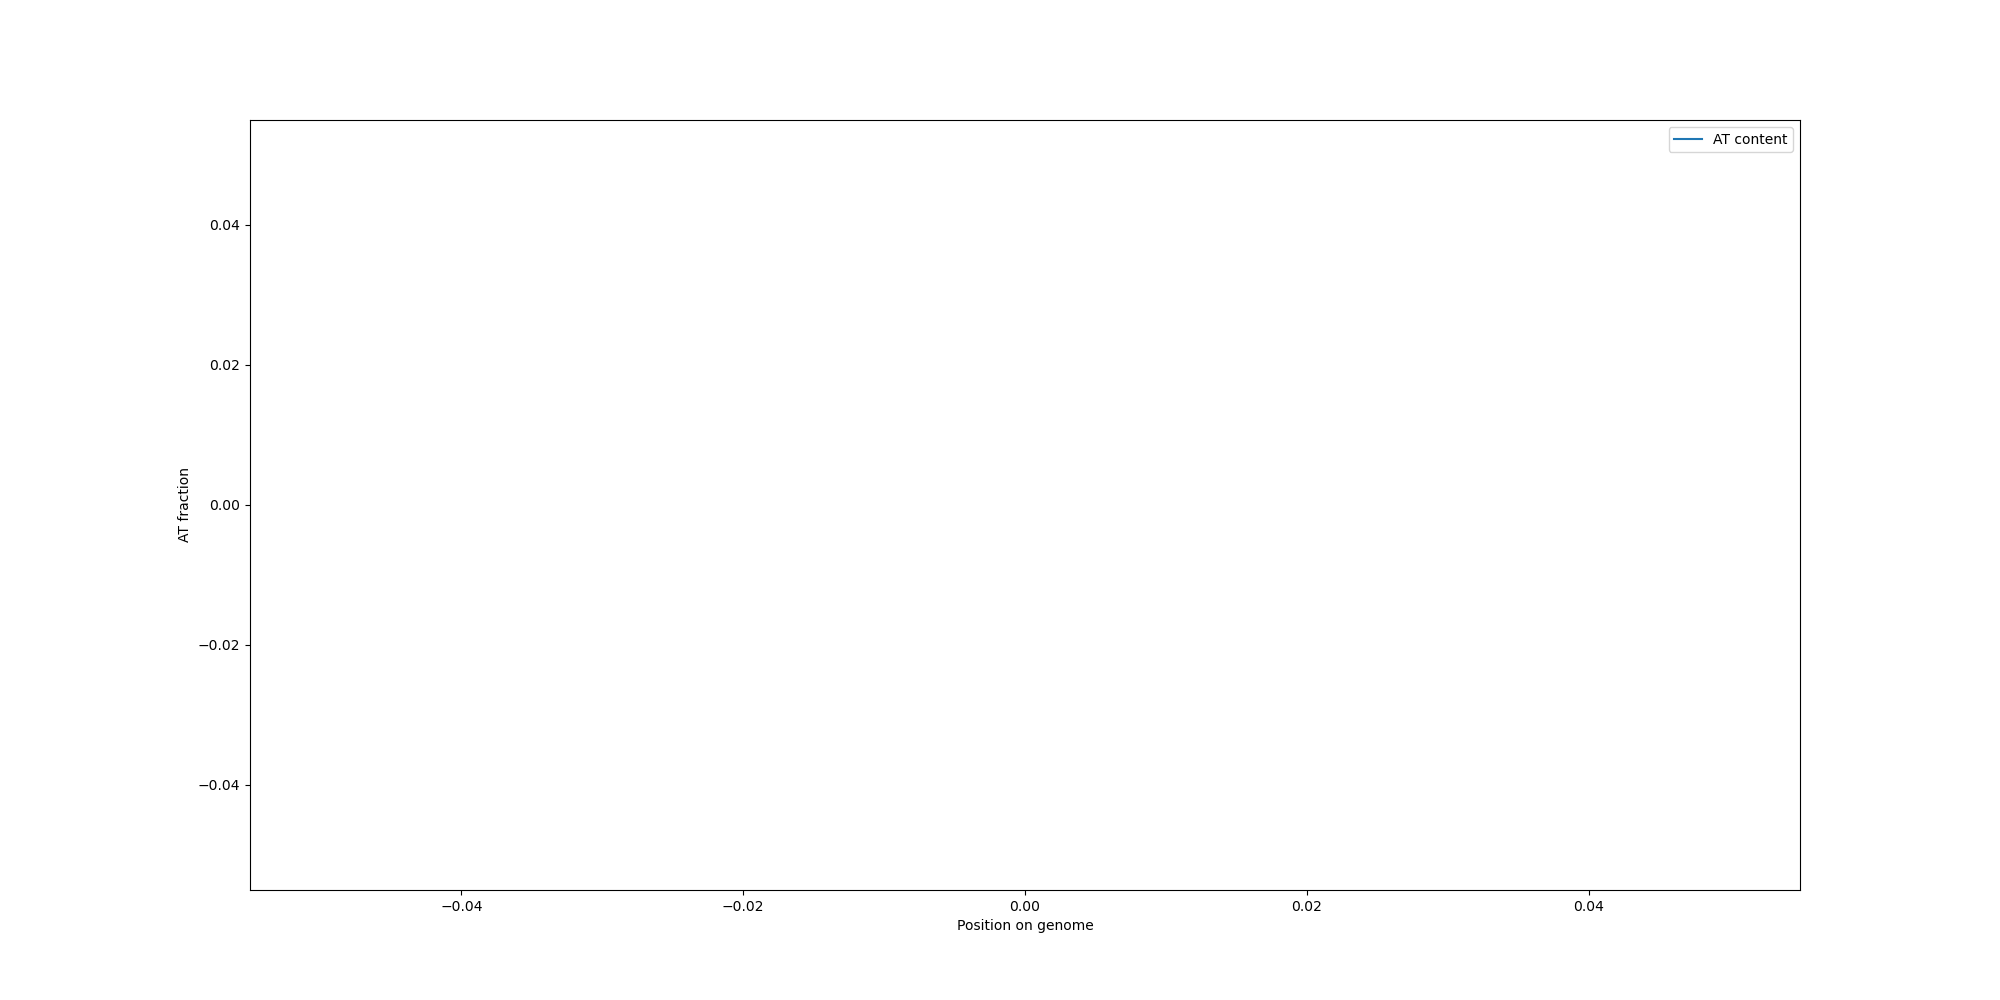
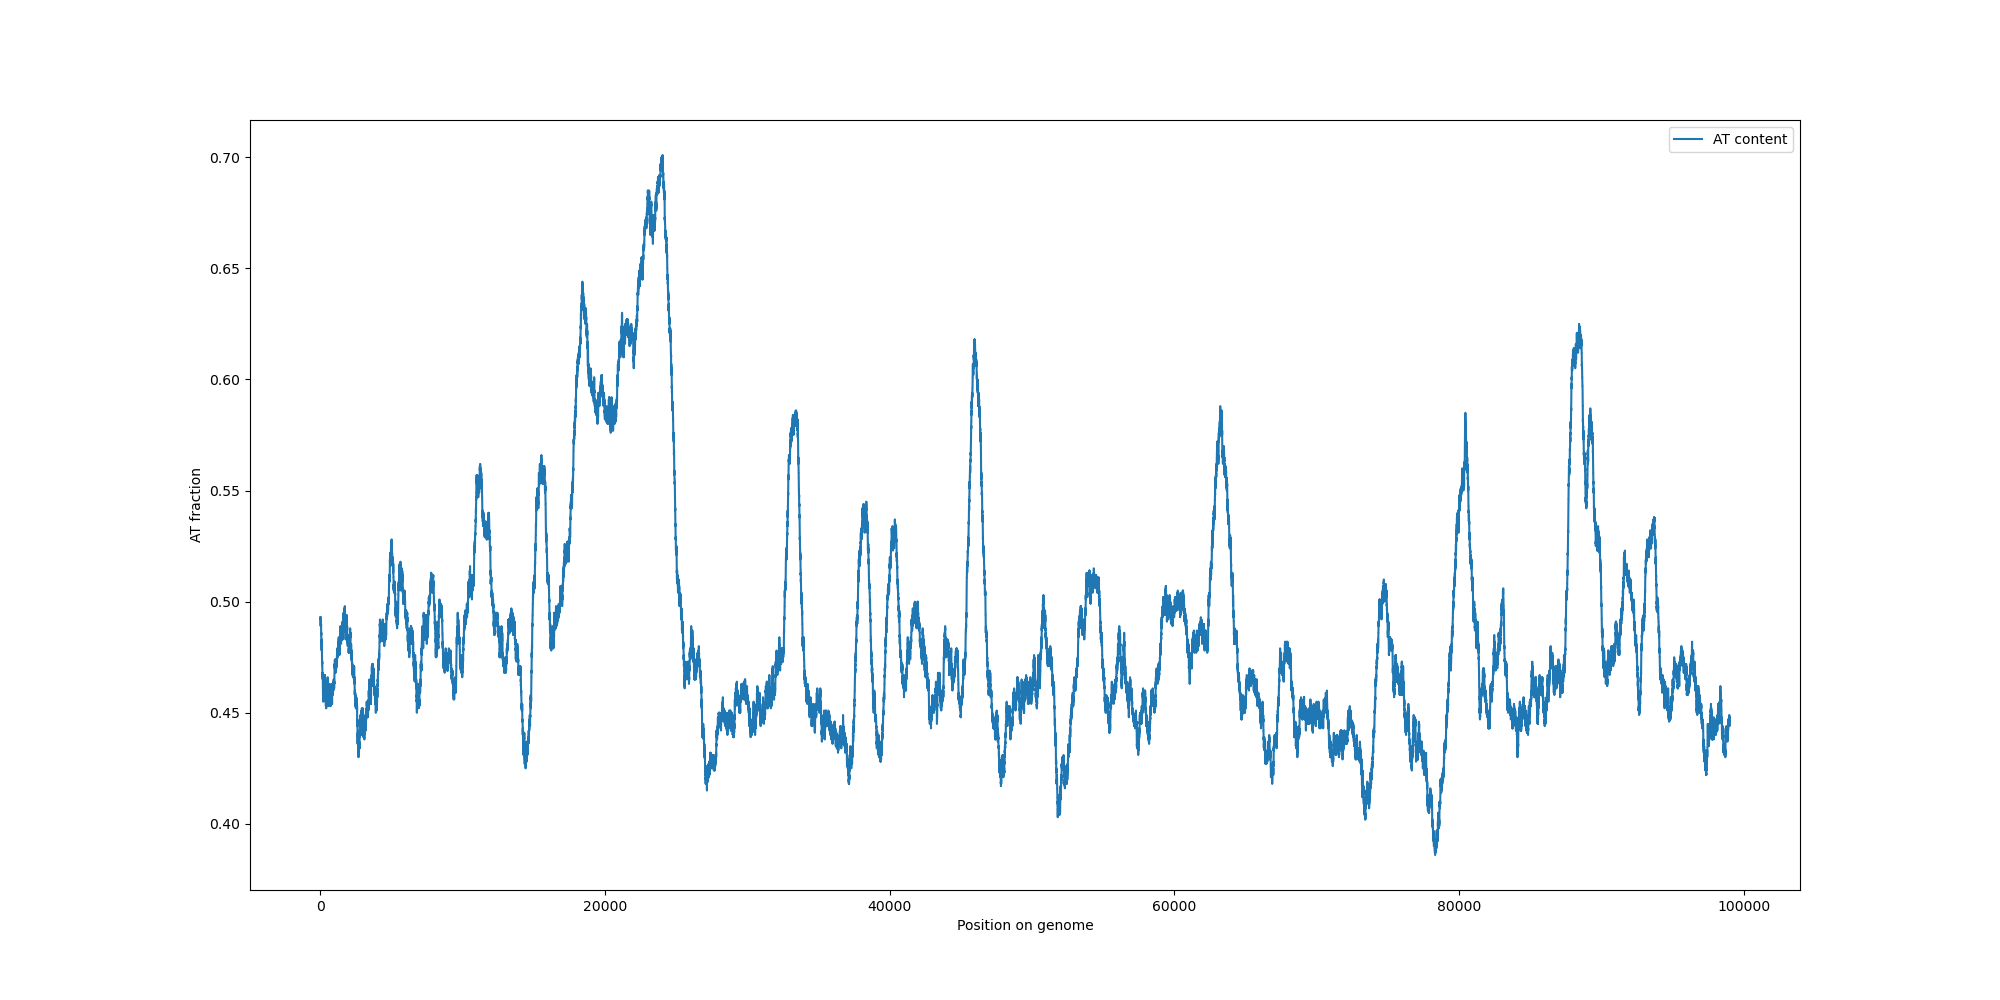
Lecture 19 updated

diff --git a/Lecture19/ecoli.py b/Lecture19/ecoli.py
@@ -14,8 +14,8 @@ positions_50000 = []
 for start in range(len(ecoli_50000) - window + 1):
     win = ecoli_50000[start : start + window]
     at_fraction = (win.count("A") + win.count("T")) / window
-    at_content.append(at_fraction)
-    positions.append(start)
+    at_content_50000.append(at_fraction)
+    positions_50000.append(start)
 
 plt.figure(figsize = (20,10))
 plt.plot(positions_50000, at_content_50000, label = "AT content")
@@ -27,7 +27,7 @@ plt.savefig("Ecoli_50000_AT.png", transparent = True)
 plt.show()
 
 
-ecoli_100000 = open("/localdisk/data/BPSM/Lecture19/exolit.txt").read().replace("\n", ""),upper()[0:100000]
+ecoli_100000 = open("/localdisk/data/BPSM/Lecture19/ecoli.txt").read().replace("\n", "").upper()[0:100000]
 
 at_content_100000 = []
 positions_100000 = []
@@ -48,7 +48,7 @@ plt.savefig("Ecoli_100000_AT.png", transparent = True)
 plt.show()
 
 
-ecoli_whole = open("/localdisk/data/BPSM/Lecture19/exolit.txt").read().replace("\n", ""),upper()
+ecoli_whole = open("/localdisk/data/BPSM/Lecture19/ecoli.txt").read().replace("\n", "").upper()
 
 at_content_whole = []
 positions_whole = []
